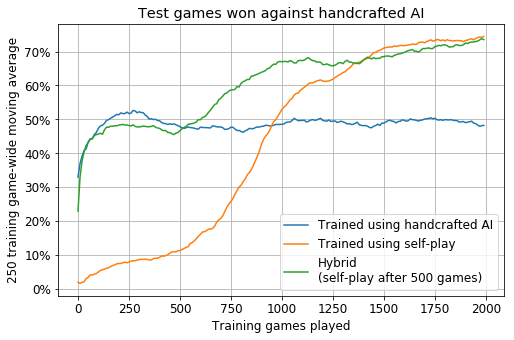
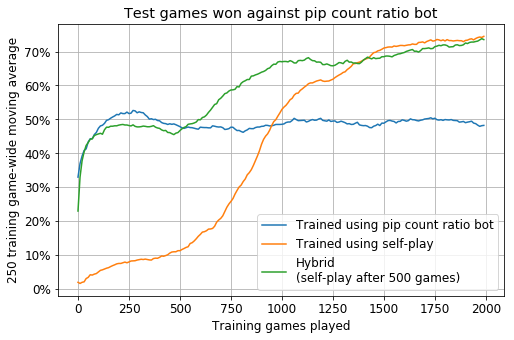
README wording

Changed region(s): [[0.4981, 0.7059, 0.9339, 0.8529], [0.249, 0.0294, 0.8716, 0.0588], [0.4981, 0.6176, 0.965, 0.6765]]

diff --git a/README.md b/README.md
@@ -1,20 +1,20 @@
 # backgammon
 
-An OCaml implementation of command-line backgammon with an AI trained using reinforcement learning.
+An OCaml implementation of command-line backgammon with a bot trained using reinforcement learning.
 
-**Play against the AI [here](https://www.jacobh.co.uk/backgammon)!**
+**Play against the bot [here](https://www.jacobh.co.uk/backgammon)!**
 
-Backgammon was the first major board game to be successfully attacked with techniques that resemble modern reinforcement learning, by Gerald Tesauro in the early 1990s. A first-hand account of the development of his program, TD-Gammon, can be found [here][2]. A good second-hand summary, including an introduction to the TD(*&lambda;*) algorithm on which the program is based, can be found in [1]. Details of some later implementations can be found [here][3] and [here][4].
+Backgammon was the first major board game to be successfully attacked with techniques that resemble modern reinforcement learning, by Gerald Tesauro in the early 1990s. A first-hand account of the development of his program, TD-Gammon, can be found [here][2]. A good second-hand summary, including an introduction to the TD(*&lambda;*) algorithm on which the program is based, can be found in [1]. Details of some later (re-)implementations can be found [here][3] and [here][4].
 
 Our implementation uses a closely-related but distinct algorithm. In outline, the general form of our algorithm is as follows.
 - Set up a feedforward neural network that takes as input a representation of a board position from the perspective of a particular player, and is intended to output an estimate of that player's "equity", i.e. the probability of that player winning the game (one may additionally ask for the probabilities of winning or losing a gammon or a backgammon).
 - Construct an "amplified" equity estimator, which is allowed to be more expensive than the neural network but should also be more accurate. In the simplest case, the amplified estimator can use 1-ply look-ahead, i.e. consider every possible roll of the dice and calculate the expected equity, as estimated by the neural network itself, once the opponent has played their next move. The amplified estimator should correctly identify who has won (and whether by a gammon or a backgammon) once the game is over.
-- Generate a sequence of board positions (by self-play using the amplified estimator, for example), estimate the equity of each position using the amplified estimator, and use these as training examples for the neural network.
+- Generate a sequence of board positions (using every position evaluated by the amplified estimator during self-play, for example), evaluate each position using the amplified estimator, and use these as training examples for the neural network.
 
 One may view the 1-ply look-ahead version of this algorithm as being obtained from TD(*&lambda;*) by making the following modifications.
 - Set the time-decay parameter *&lambda;* to zero, i.e. only feed back errors one time step. Tesauro mentions [here][3] that most later development of TD-Gammon used this modification.
 - Rather than choosing a single roll of the dice at random, consider every possible roll and take the expected value before feeding back the error.
-- Train the neural network once each game is over rather than learning online.
+- Train the neural network between games rather than learning online.
 
 This algorithm cannot be used in quite as general a setting as TD(*&lambda;*) itself: it requires us to have perfect knowledge of the environment, in order to consider every possible roll of the dice. But given that this knowledge is available in backgammon, the algorithm offers a number of advantages.
 - The averaging should smoothen the training process. Formally, it has a stronger convergence property: with an idealised function approximator instead of the neural network (such as a lookup table), and assuming that every possible board position is reached infinitely many times, the algorithm converges to produce a completely accurate equity estimator *without needing to lower the learning rate* (whereas TD(*&lambda;*) only converges if the learning rate tends to zero).
@@ -25,13 +25,13 @@ The implementation uses [tensorflow-ocaml](https://github.com/LaurentMazare/tens
 
 ## Experiments
 
-### Training using a handcrafted AI
+### Training using a handcrafted bot
 
 Tesauro [remarks][2] that with random play, backgammon games often last several hundred or even several thousand moves. This threatens to significantly slow down the initial stages of training when using self-play. This is especially true since we only feed back one time step, so initially the neural network only learns to improve on board positions that are one move away from the end of the game.
 
-Since it is possible to change the amplified equity estimator in our algorithm, we therefore tried using a handcrafted AI as the amplified equity estimator, at least during the initial stages of training. Our handcrafted AI uses 1-ply look-ahead, but instead of using the neural network, it uses the ratio of the players' [pip counts](https://en.wikipedia.org/wiki/Backgammon) as a heuristic evaluation function. This ratio is a very poor estimate of the probability of winning (except very close to the end of the game), but with look-ahead it produces an AI that is able to implement simple strategies such as capturing and playing safe, preventing the game from lasting a very long time.
+Since it is possible to change the amplified equity estimator in our algorithm, we therefore tried using a handcrafted bot as the amplified equity estimator, at least during the initial stages of training. Our handcrafted bot uses 1-ply look-ahead, but instead of using the neural network, it uses the ratio of the players' [pip counts](https://en.wikipedia.org/wiki/Backgammon) as a heuristic evaluation function. This ratio is a very poor estimate of the probability of winning (except very close to the end of the game), but with look-ahead it produces a bot that is able to implement simple strategies such as capturing and playing safe, preventing the game from lasting a very long time. We refer to this bot as the "pip count ratio bot".
 
-We compared three variants of the algorithm for 2,000 training games: using self-play (with 1-ply look-ahead), using only our handcrafted AI, and using a hybrid method in which the handcrafted AI was used for the first 500 training games before switching to self-play. This experiment used a very similar neural network architecture to Tesauro, with a single fully-connected hidden layer of 40 units and sigmoid activation. Only our board encoding is slightly different: in the encoding of the number *n* of a player's counters on a particular point, we replace the condition *n* = 3 by the condition *n* ≥ 3, in an attempt to take advantage of the fact that this indicates that the player will still have a made point after removing a counter; the unit specifying the number of counters on the bar is split in two, one specifying whether any counters are on the bar; and the unit indicating whose turn it is is removed, thereby removing a symmetry of the original representation. For training, we use the [Adam](https://arxiv.org/pdf/1412.6980.pdf) optimisation algorithm, and train on 500 minibatches of size 128 after every 10 games, using a [replay memory](https://arxiv.org/pdf/1312.5602v1.pdf) with a capacity of 50,000 board positions. For testing, after every 10 training games, 100 games were played between an AI that chooses moves using the neural network (with no look-ahead) and the handcrafted AI.
+We compared three variants of the algorithm for 2,000 training games: using self-play (with 1-ply look-ahead), using only the pip count ratio bot, and using a hybrid method in which the pip count ratio bot was used for the first 500 training games before switching to self-play. This experiment used a very similar neural network architecture to Tesauro, with a single fully-connected hidden layer of 40 units and sigmoid activation. Only our board encoding is slightly different: in the encoding of the number *n* of a player's counters on a particular point, we replace the condition *n* = 3 by the condition *n* ≥ 3, in an attempt to take advantage of the fact that this indicates that the player will still have a made point after removing a counter; the unit specifying the number of counters on the bar is split in two, one specifying whether any counters are on the bar; and the unit indicating whose turn it is is removed, thereby removing a symmetry of the original representation. For training, we use the [Adam](https://arxiv.org/pdf/1412.6980.pdf) optimisation algorithm, and train on 500 minibatches of size 128 after every 10 games, using a [replay memory](https://arxiv.org/pdf/1312.5602v1.pdf) with a capacity of 50,000 board positions. For testing, after every 10 training games, 100 games were played between a bot that chooses moves using the neural network (with no look-ahead) and the pip count ratio bot.
 
 Here are the results, with moving averages displayed in order to cancel out some of the noise.
 
@@ -52,26 +52,27 @@ df = pd.DataFrame({
 },  columns = ['pcr', 'self', 'hybrid'])
 df = df.rename(columns={
     'self': 'Trained using self-play',
-    'pcr': 'Trained using handcrafted AI',
+    'pcr': 'Trained using pip count ratio bot',
     'hybrid': 'Hybrid\n(self-play after 500 games)',
 })
 df.index = df.index * 10
 plt.rcParams.update({'font.size': 12})
-ax = df.plot(figsize=(8, 5), grid=True, title='Test games won against handcrafted AI')
+ax = df.plot(figsize=(8, 5), grid=True, title='Test games won against pip count ratio bot')
 ax.set_xlabel('Training games played')
 ax.set_ylabel('250 training game-wide moving average')
 ax.yaxis.set_major_formatter(FuncFormatter(lambda y, _: '{:.0%}'.format(y))) 
 plt.show()
 ](handcrafted_experiment.png)
 
-As expected, training using the handcrafted AI very quickly produces something with reasonable performance, but this performance plateaus at 50%, since naturally it cannot outperform the handcrafted AI itself. The hybrid method clearly improves upon this, while training using self-play starts out much more slowly. However, the self-play method catches up with the hybrid method in under 1,500 training games. Interestingly, in this particular run, after the full 2,000 games, the AI produced using self-play was slightly better than the AI produced using the hybrid method, winning 52,024 games in a 100,000-game head-to-head. While this difference could be put down to noise in the training process, it certainly appears that any early advantage gained by using the hybrid method has all but disappeared after 2,000 training games. Our explanation for this is that, while the handcrafted AI is able to make reasonable moves, its equity estimates are very poor, so the hybrid method has a lot of "unlearning" to do after it switches to self-play.
+As expected, training using the pip count ratio bot very quickly produces something with reasonable performance, but this performance plateaus at 50%, since naturally it cannot outperform the pip count ratio bot itself. The hybrid method clearly improves upon this, while training using self-play starts out much more slowly. However, the self-play method catches up with the hybrid method in under 1,500 training games. Interestingly, in this particular run, after the full 2,000 games, the bot produced using self-play was slightly better than the bot produced using the hybrid method, winning 52,024 games in a 100,000-game head-to-head. While this difference could be put down to noise in the training process, it certainly appears that any early advantage gained by using the hybrid method is at best modest after 2,000 training games. Our explanation for this is that, while the pip count ratio bot is able to make reasonable moves, its equity estimates are very poor, so the hybrid method has a lot of "unlearning" to do after it switches to self-play.
 
-Despite those remarks, the graph does not show the length of the early training games and the time saved as a result. Therefore the best approach may be to use the handcrafted AI for a very small number of initial training games (a single game, say), to put the AI on the right track, before switching to self-play. Since the benefit appears to be modest, in our remaining experiments we choose to forgo the use of handcrafted AI entirely for the sake of simplicity.
+Despite those remarks, the graph does not show the length of the early training games and the time saved as a result. Therefore the best approach may be to use the pip count ratio bot for a very small number of initial training games (a single game, say), to put the bot on the right track, before switching to self-play. Since the benefit appears to be modest, in our remaining experiments we choose to forgo the use of the pip count ratio bot entirely for the sake of simplicity.
 
-Finally, we note that our AI performs well after relatively few training games. Tesauro [notes][2] that TD-Gammon achieves an intermediate level of play after 200,000 training games. While we have unfortunately not yet implemented a way to test our AI against a shared benchmark, our self-play method peforms well and stops improving after a only few thousand games. However, this difference is somewhat of an illusion, since our algorithm considers around a few hundred times as many positions in its 1-ply look-ahead as TD-Gammon does, making the performance of the two algorithms more comparable.
+Finally, we note that our bot performs well after relatively few training games. Tesauro [notes][2] that TD-Gammon achieves an intermediate level of play after 200,000 training games. While we have unfortunately not yet implemented a way to test our bot against a shared benchmark, our self-play method peforms well and stops improving after a only few thousand games. However, this difference is somewhat of an illusion, since our algorithm evaluates around a few hundred times as many positions in its 1-ply look-ahead as TD-Gammon does, making the performance of the two algorithms more comparable.
 
 ### Coming soon...
 
+- Benchmarking our algorithm against GNU Backgammon
 - An experiment between different neural network architectures using an expanded board representation: using 1 hidden layer of size 40, using 2 hidden layers of size 80, and using 5 hidden layers of size 400 and relu rather than sigmoid activation
 - An experiment between 1-ply look-ahead and some form of Monte Carlo tree search guided by the output of the neural network
 
